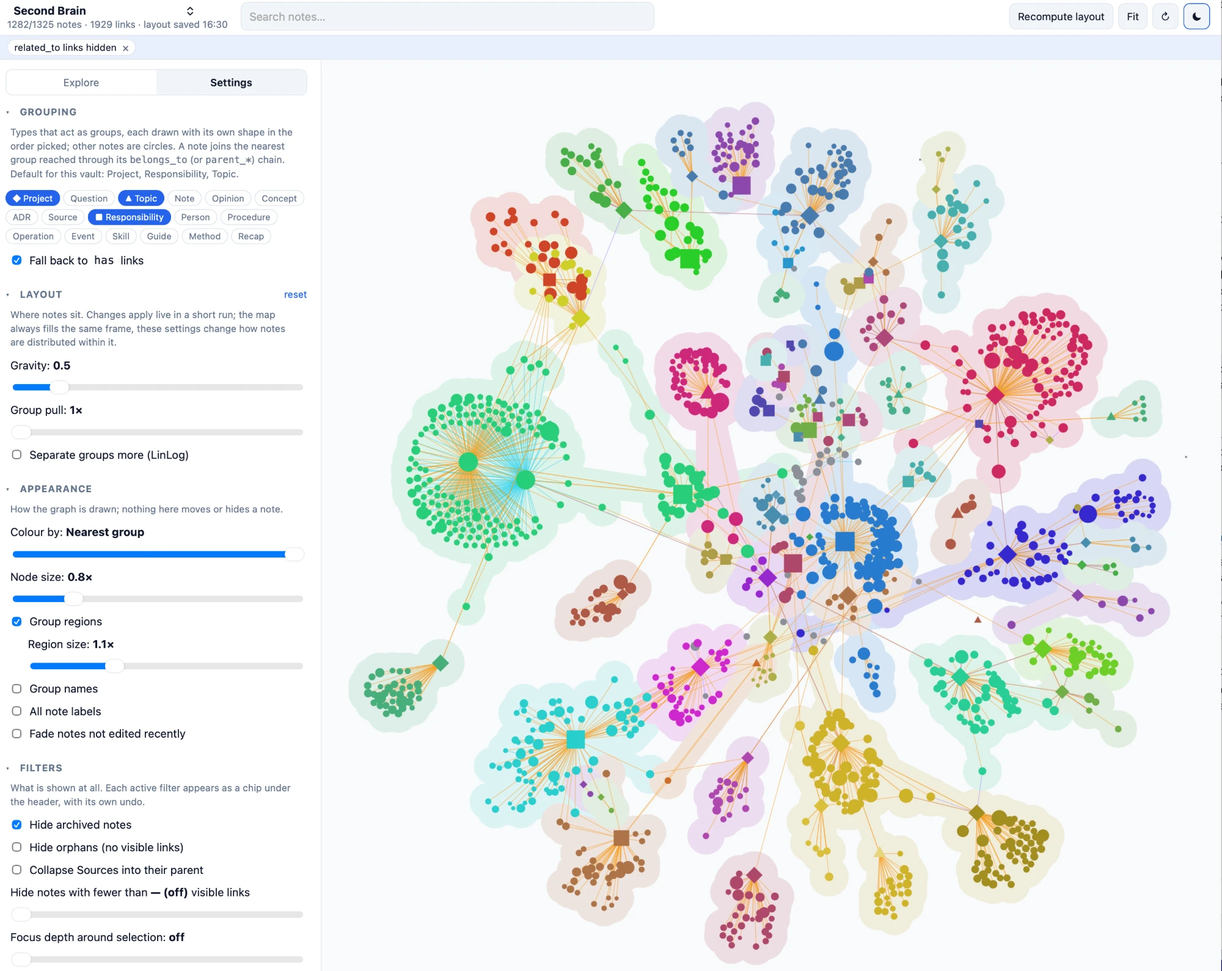
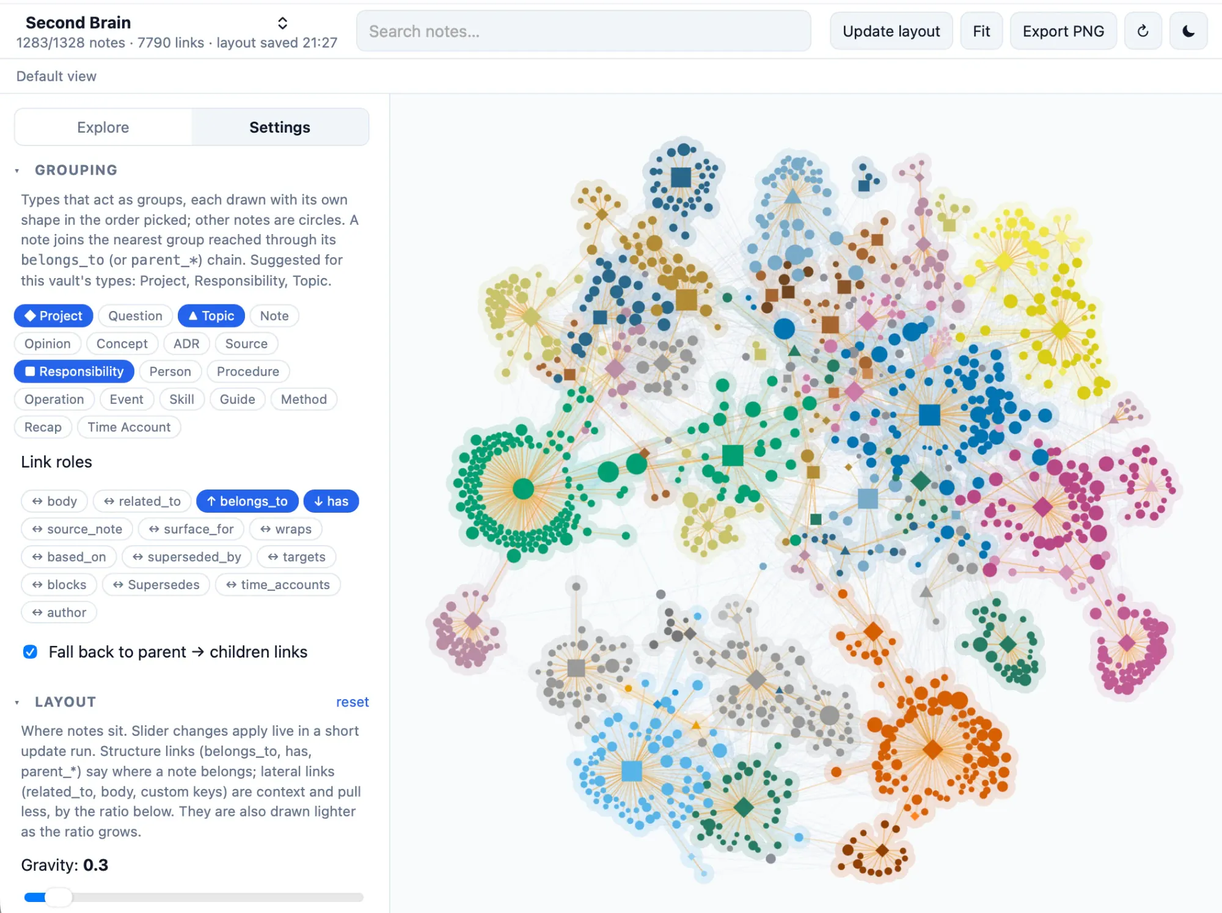
Fix the resize handles sharing one grid cell, rewrite the README, refresh the screenshot
The right gutter kept the .gutter rule's grid-area because its own rule came
first in the stylesheet, so both handles stacked in the left cell: dragging the
left edge resized the note panel and the right edge had no handle at all. The
README now gives the Second Brain context (Tolaria, Portent, the Second Brain
template), everyday use, the configurable conventions and related tools, with
the Tolaria graph-view and plugin claims cited to the right issues.

diff --git a/src/index.css b/src/index.css
@@ -45,7 +45,6 @@ button { font: inherit; color: inherit; }
 }
 .stateline.empty { background: var(--panel); }
 .app.with-panel { grid-template-columns: var(--sidebar-w) 6px minmax(0, 1fr) 6px var(--panel-w); }
-.gutter-right { grid-area: gutter2; border-right: 0; border-left: 1px solid var(--border); }
 .gutter {
   grid-area: gutter;
   cursor: col-resize;
@@ -53,6 +52,8 @@ button { font: inherit; color: inherit; }
   border-right: 1px solid var(--border);
   position: relative;
 }
+/* After .gutter so its grid-area wins (same specificity): both handles once shared the left cell. */
+.gutter.gutter-right { grid-area: gutter2; border-right: 0; border-left: 1px solid var(--border); }
 .gutter::after { content: ""; position: absolute; inset: 0 2px; border-radius: 2px; }
 .gutter:hover::after, .gutter.active::after { background: var(--accent); opacity: .6; }
 .app.resizing { user-select: none; cursor: col-resize; }

diff --git a/README.md b/README.md
@@ -1,44 +1,50 @@
 # Brain Graph
 
-Interactive graph view of a Markdown Second Brain vault (Tolaria-style: frontmatter `type`, wikilink relationships), rendered in WebGL, with notes coloured and grouped by the project or responsibility they belong to.
+An interactive map of a **Second Brain vault**: a folder of Markdown notes with YAML frontmatter and wikilinks, the kind kept with [Tolaria](https://tolaria.md/) and structured with the [Second Brain template](https://github.com/mfoll/second-brain-template). Each note is a node, each relationship a link, and notes are coloured and grouped by the Project, Responsibility or Topic they belong to. The map runs locally from the folder, opens notes back in Tolaria, and never writes to the vault.
 
-![A 1,300-note vault with group regions, coloured by nearest group, related_to links hidden](docs/brain-graph-second-brain.webp)
+![Brain Graph showing a 1,300-note vault: group regions tinted by nearest Project or Responsibility, hierarchy links drawn in orange, and the Settings tab with grouping types and link roles](docs/brain-graph-second-brain.webp)
 
-Tolaria has no graph view and no plugin system (maintainer answer in refactoringhq/tolaria#587), so this is a standalone companion that reads the vault folder directly. It works with any folder of Markdown notes whose frontmatter has a `type` and wikilink relationships; Tolaria itself is optional. A vault with no project-like types shows grey nodes until you pick which types act as groups in Settings → Grouping.
+[Why a map](#why-a-map) · [What it shows](#what-it-shows) · [Install and run](#install-and-run) · [Everyday use](#everyday-use) · [Vault conventions](#vault-conventions) · [Development](#development) · [How it works](#how-it-works) · [Related tools](#related-tools) · [Status](#status) · [Licence](#licence)
+
+## Why a map
+
+A Second Brain of this kind is a graph by construction. [Portent](https://github.com/refactoringhq/portent), the open specification Tolaria follows, gives notes a `type` (Project, Source, Question, Concept, Person…) and typed relationships: `belongs_to` names a parent, `has` selects entry points, `related_to` links laterally. The [Second Brain template](https://github.com/mfoll/second-brain-template) adds the operating rules for agents and a hierarchy contract: every durable note rolls up to a Responsibility, and Topics stay lateral. Tolaria shows this structure one note at a time, as lists of relationships; it has no graph view ([refactoringhq/tolaria#587](https://github.com/refactoringhq/tolaria/issues/587)), and a plugin system is a tracked feature request rather than something to build on ([#1046](https://github.com/refactoringhq/tolaria/issues/1046)).
+
+Brain Graph is the missing picture. Seen whole, the vault answers questions a list cannot: which projects have grown large, which notes sit far from any Responsibility, where two areas of work actually touch, whether a Topic has quietly become a parent. The same view is an audit instrument for the hierarchy contract: the viewer shows which chain of links it followed for every note and lists those that reach no group, and a companion command prints the inferred hierarchy for an agent to review.
+
+It is a standalone companion, not a Tolaria extension: it reads the vault folder directly, Tolaria is optional, and any folder of Markdown notes whose frontmatter carries a `type` and wikilink relationships works. The conventions it assumes are the Tolaria and template defaults, and every one of them can be changed per vault in Settings.
 
 ## What it shows
 
-- One node per Markdown note, sized by number of links, **coloured by its group**: every note rolls up through its `belongs_to` chain to the nearest *group* note. Which types act as groups is configurable (default Project, Responsibility, Topic; when Project is among them the first Project met wins), and so is the role of each relationship kind: child → parent (default `belongs_to`, `parent_*`), parent → children (default `has`, followed only as a fallback because vaults often use it for selective entry points) or lateral. The defaults are Tolaria's conventions; everything is per vault in Settings → Grouping. A slider chooses the roll-up level. Each group type is drawn with its own shape in the order selected (◆ ■ ▲ ▬); every other note is a circle. A vault with no group notes at all falls back to the colours of its `Type` notes.
-- The sidebar has two tabs. **Explore** is for navigation: Groups (the hub hierarchy with note counts), Types and Links, each section collapsible. **Settings** holds everything that changes how the graph is computed or drawn, split by effect: Grouping (how notes are assigned to groups), Layout (where they sit), Appearance (palette, colour level, node size, link opacity, regions, names, labels, recency fade) and Filters (what is shown at all). The sidebar shows the hub hierarchy (Topics and Responsibilities → Projects → subprojects) with note counts. Clicking a row focuses it: every note of the group (or of the type, in the Types section) stays lit and labelled, everything else fades, and for a group its note opens in the panel; clicking again unfocuses, as does clicking the graph. Each Type row expands to its notes and has a hover **hide** toggle for the rare case where a type should leave the graph entirely.
-- Reading: the detail panel renders the note's Markdown (callouts, tables, images from the vault) with wikilinks that navigate the graph, next to a Links tab grouping relationships by kind.
-- Group regions and names: a tinted region behind each home group at the current roll-up level: a disc around each visible member note plus thick rounded strokes along the hierarchy links inside the group, so a cluster reads as one shape; padding is in map units so regions scale with zoom, with a size slider. The group's name sits at its median position. A name appears when at least four of the group's notes are visible; names are placed largest group first and nudged up or down to avoid each other; the focused group is always named. Regions and names fade while something is hovered or focused and follow the grouping types and roll-up level. Regions and names are separate toggles in Settings.
-- The Home tree ends with an **Unassigned** row: notes whose chain reaches no group; focus it to see them. A selected group's panel has a **Members** tab (its notes by type), and every note's breadcrumb has a **why?** link showing the exact chain of relationships the viewer followed.
-- Panel navigation: back and forward arrows replay the notes you opened; Escape unfocuses, then closes the panel. A state line under the header lists what is in effect (focus, hidden types or links, skeleton view…) with one **clear** link.
-- **Export PNG** downloads the current view (background, regions, graph, names) at twice the screen resolution; PNG because the renderer is WebGL and the regions are raster, so there is no vector form to export.
-- The view (hidden types and link kinds, toggles, region size) is remembered per vault in the browser; the focus lives in the URL instead.
-- Shareable URL: `?vault=…&note=…&focus=hub:genesis|type:Question|unassigned&level=0|2` is kept up to date, so a Tolaria note or an agent report can link straight into a view.
-- A **Layout physics** section exposes gravity and the structure-over-lateral ratio (1–10, default 6): a structure link (belongs_to, has, parent_*) pulls that many times harder than a lateral one (related_to, custom keys; body wikilinks at 40 %), and lateral links are drawn thinner and lighter as the ratio grows (full at 1, half at 6, a tenth at 10); Appearance also has a global link opacity, remembered per vault and applied live in a 0.75-second run so the effect is visible at once. Nodes cannot be dragged: hand placement does not survive the next layout run.
-- Type facets: an expanded Type row lists the values of a frontmatter key found on its notes (`status` first; other keys qualify only when shared by at least three types, carried by a tenth of the notes and holding few distinct values), each clickable to focus those notes, e.g. Questions with `status = Open`. Nothing is specific to one vault's vocabulary.
-- Toggles: hide archived, hide orphans, hide notes with fewer than N visible links (skeleton view; group notes always stay), collapse one leaf type (sources, references…) into a `+N` count on its parent, fade notes by time since last edit (7 / 30 / 90 days).
-- One edge per relationship. Every frontmatter key whose value contains wikilinks is a relationship (the Tolaria rule): `belongs_to`, `has`, `related_to`, `surface_for` and custom keys such as `source_note` or `wraps`. Body wikilinks are a separate, thinner `body` kind, hidden by default.
-- Hover: tooltip with type, status, link counts and the note's first paragraph; neighbours stay lit, the rest fades.
-- Click: detail panel with summary, outgoing and incoming relationships grouped by kind, frontmatter, **Open in Tolaria** (`tolaria://<vault-slug>/<path>.md`) and copy-wikilink.
-- Sidebar: toggle types and relationship kinds (Alt-click isolates one), hide archived notes, hide orphans, and a focus-depth slider that keeps only the selected note's neighbourhood.
-- Search box with Enter to jump.
-- Layout: ForceAtlas2 stepped a few iterations per animation frame (about 3 ms each for a thousand notes), damped from the first frame and cooled exponentially so nodes come to rest within the run: 8 s and five steps per frame for a first layout (well over a thousand steps), 0.75 s and two steps per frame for a nudge, a settle of new notes or a physics change. **Update layout** in the header nudges the map from the current positions (0.75 s); **Reset layout** in Settings → Layout redoes it from scratch (8 s); **Stop** keeps the positions of the moment.
-- Live reload: the dev server watches the vault and re-parses on change.
-- During a layout run the physics keeps its natural scale and the frame follows the map smoothly; when the run ends, positions are normalised once to a fixed extent (so saved maps are comparable, node sizes stay constant, and **Fit** is a smooth camera move back to the full view). Normalising on every frame was tried and rejected: it fights ForceAtlas2's natural scale and collapses the map into a ball.
-- Stable map: node positions are saved to `.tmp/layouts/<vault-slug>.json` when a layout run stops (or you pause it). The next start restores them without running the layout; only new notes get a short settling run, placed next to their linked notes while everything else stays pinned. **Reset layout** forgets the saved positions.
+**Nodes.** One node per note, sized by its number of links. Group types (default Project, Responsibility, Topic) are drawn as shapes in the order picked (◆ ■ ▲ ▬); every other note is a circle. Hovering shows type, status, link counts and the first paragraph, and lights the neighbours. Clicking opens the note.
+
+**Colour by group.** Every note rolls up through its `belongs_to` chain (or `parent_*` keys) to the nearest group note and takes its colour. A slider chooses the roll-up level: colour by first-level Responsibility or Topic, or by individual Project. Six palettes. A vault with no group notes at all falls back to the colours declared on its `Type` notes.
+
+**Links.** One edge per relationship: every frontmatter key whose value contains wikilinks counts, which is Tolaria's rule, so `belongs_to`, `has`, `related_to`, `surface_for` and custom keys such as `source_note` all appear, each toggleable. Body wikilinks are a separate, thinner `body` kind, hidden by default. Structure links (child → parent, parent → children) are drawn stronger than lateral ones, and a single ratio decides how much harder they pull in the layout and how much lighter lateral links are drawn.
+
+**Regions and names.** A tinted region behind each group at the current roll-up level, built from discs around member notes and strokes along the hierarchy links inside the group, so a cluster reads as one shape. Regions scale with zoom and have a size slider. Group names sit at the median of their notes, placed largest first and nudged apart. Regions and names are separate toggles and fade while something is hovered or focused.
+
+**Sidebar.** *Explore* lists Groups (the hierarchy with note counts), Types (expandable to their notes, with facets such as `status` for one-click focus on, say, open Questions) and Links. Clicking a row focuses it: its notes stay lit and labelled, everything else fades, and a group's note opens in the panel. *Settings* holds everything that changes how the map is computed or drawn, split by effect: Grouping, Layout, Appearance, Filters. A state line under the header lists what is in effect (focus, hidden types or links, skeleton view…) and clears it in one click.
+
+**Note panel.** The note's Markdown rendered with callouts, tables and vault images; wikilinks navigate the map. A Links tab groups relationships by kind, a Members tab lists a group's notes by type, and a **why?** link on the breadcrumb shows the exact chain the viewer followed to assign the note. Back and forward arrows replay your path. **Open in Tolaria** uses the `tolaria://<vault>/<path>.md` deep link.
+
+**Audit views.** The Groups tree ends with **Unassigned**, the notes whose chain reaches no group. Filters hide archived notes and orphans, keep only notes with at least N visible links (skeleton view; group notes always stay), collapse one leaf type such as Sources into a `+N` count on its parent, and fade notes by time since last edit.
+
+**Layout.** ForceAtlas2, stepped a few iterations per animation frame and cooled so nodes come to rest within the run. Positions are saved per vault when a run stops, so the map is stable between sessions; new notes settle next to their links while the rest stays put. **Update layout** nudges the current map for under a second; **Reset layout** redoes it from scratch in a few seconds and keeps a backup of the previous map. Nodes are not draggable: hand placement would not survive the next run.
+
+**Sharing.** **Export PNG** saves the current view at twice the screen resolution. The URL carries the vault, note, focus and roll-up level (`?vault=…&note=…&focus=hub:genesis&level=0`), so a note in Tolaria or an agent report can link straight into a view. Everything else you toggle is remembered per vault in the browser.
+
+**Live.** The server watches the vault and the map rebuilds when a note changes.
 
 ## Install and run
 
-Brain Graph is a small local web app: a Node process reads your vault and serves the viewer to your browser. It needs Node 20.19 or newer and nothing else.
+Brain Graph is a small local web app: a Node process reads your vault and serves the viewer to your browser. It needs [Node.js](https://nodejs.org/) 20.19 or newer and nothing else.
 
 ```bash
 npx github:mfoll/brain-graph ~/path/to/vault
 ```
 
-The first run builds the app (about a minute), later runs start in a second. The folder is optional: without one, Brain Graph serves the vaults registered in Tolaria plus the folders you add in the app. Options: `--port 5178`, `--no-open`.
+The first run builds the app (about a minute); later runs start in a second. The folder is optional: without one, Brain Graph serves the vaults registered in Tolaria plus the folders you add in the app. Options: `--port 5178`, `--no-open`.
 
 To keep it around, install it once and run it by name:
 
@@ -47,9 +53,31 @@ npm install -g github:mfoll/brain-graph
 brain-graph ~/path/to/vault
 ```
 
-Then open <http://localhost:5178>. The dropdown at the top left lists your vaults; **Manage vaults…** opens a dialog to add a folder by path (any folder of Markdown notes), remove one, and choose whether to include the vaults registered in Tolaria (read from `~/Library/Application Support/com.tolaria.app/vaults.json` when present; Tolaria is optional). The list is stored in `~/.config/brain-graph/vaults.json` and saved layouts in `~/.config/brain-graph/layouts/`. Your last choice is remembered. Each vault has its own graph, saved layout, filters and grouping default: the Second Brain ontology gets Project / Responsibility / Topic, the Scientific Production Archive gets Paper / Grant (the types most often on the receiving end of `parent_*` and `belongs_to` links). Only the selected vault is read; the others are not parsed until you switch to them. The viewer never writes to a vault.
+Then open <http://localhost:5178>. The viewer does not write to the vault. Its own files live in `~/.config/brain-graph/`: `vaults.json` (the vault list) and `layouts/` (one saved map per vault, with a backup).
 
-Edits to notes show up live: the server watches the vault and the page rebuilds the graph when a note changes.
+## Everyday use
+
+- **Switch vaults** with the dropdown at the top left. **Manage vaults…** adds a folder by path, removes one, and chooses whether to include the vaults registered in Tolaria (read from its registry when present). Each vault keeps its own map, filters and grouping; only the selected vault is read.
+- **Find a note** with the search box (Enter jumps to it), or follow a link from Tolaria or a report with the URL form above.
+- **Read a cluster** by clicking its group in Explore, or a Type facet such as Project → Active. Escape unfocuses, then closes the panel.
+- **Review the hierarchy** by focusing Unassigned, opening a suspect note and reading its **why?** chain, then fixing `belongs_to` in Tolaria or with your agent. The map rebuilds on save.
+- **Tune the picture** in Settings: pick which types act as groups, raise the structure-over-lateral ratio to tighten clusters, lower link opacity on dense vaults, or hide a noisy relationship kind in Explore → Links. Slider changes run a short layout update so the effect is visible at once.
+
+## Vault conventions
+
+The defaults follow Tolaria and the Second Brain template; each is a per-vault setting.
+
+| Convention | Default | Where to change it |
+| --- | --- | --- |
+| Group types, in shape order | Project, Responsibility, Topic (Paper, Grant for an archive whose links point to them) | Settings → Grouping |
+| Child → parent links | `belongs_to`, `parent_*` keys | Settings → Grouping → Link roles (↑) |
+| Parent → children links, followed only as a fallback | `has` | Link roles (↓) and the fallback checkbox |
+| Lateral links | `related_to`, `surface_for`, body wikilinks, every other key | Link roles (↔) |
+| Type colours when no groups exist | `_color` on `type: Type` notes | the vault's Type notes |
+| Archived notes | `_archived: true` or `archived: true` | Settings → Filters |
+| Deep links | `tolaria://<slug>/<path>.md`, slug from the vault label | `VAULT_SLUG` |
+
+The `has` fallback exists because vaults use `has` for selective entry points rather than ownership: in the vault pictured above, 299 notes would have been homed through `has` alone before `belongs_to` was given priority. The grouping rules are those of the template's [hierarchy audit](https://github.com/mfoll/second-brain-template); the `graph:homes` command below prints what the viewer infers so the two can be compared.
 
 ## Development
 
@@ -59,9 +87,7 @@ pnpm install
 VAULT=~/path/to/vault VAULT_LABEL="Name" pnpm dev   # Vite dev server with hot reload on :5178
 ```
 
-Set `VAULT_SLUG` if the Tolaria deep-link slug differs from the slugified label. `pnpm build` produces `dist/` (the app plus the compiled server), which `bin/brain-graph.mjs` serves; `pnpm start -- ~/path/to/vault` runs that CLI from the checkout.
-
-Other commands:
+`pnpm build` produces `dist/` (the app plus the compiled server), which `bin/brain-graph.mjs` serves; `pnpm start -- ~/path/to/vault` runs that CLI from the checkout. Set `VAULT_SLUG` if the Tolaria deep-link slug differs from the slugified label.
 
 ```bash
 pnpm typecheck
@@ -70,20 +96,32 @@ pnpm graph:homes ~/my-vault               # the inferred group hierarchy plus au
                                           # (--no-has, --hubs=Project,Topic, --json)
 ```
 
-`graph:homes` prints the hierarchy the viewer infers and four audit lists: Projects whose parent is a Topic (a convention check for Tolaria's template, where Topics are lateral), notes with several parents at the same distance, notes homed only through a `has` link, and notes with no group at all. It is meant as input for reorganising `belongs_to` in a vault.
+`graph:homes` prints the hierarchy the viewer infers and four audit lists: Projects whose parent is a Topic, notes with several parents at the same distance, notes homed only through a `has` link, and notes with no group at all. It is meant as input for reorganising `belongs_to`; the viewer itself never writes.
 
-Contributions are welcome as issues or pull requests. Keep the vault format assumptions (frontmatter relationships, Tolaria conventions) configurable rather than hard-coded, and run `pnpm typecheck` before opening a pull request.
+Issues and pull requests are welcome. Keep vault assumptions configurable rather than hard-coded, and run `pnpm typecheck` before opening a pull request.
 
 ## How it works
 
 - `server/vault.ts` walks the vault (skipping dot-folders), parses frontmatter with `yaml`, extracts the H1, first paragraph, Type metadata and all wikilinks, and resolves link targets (root stems, folder-path stems, `|alias` and `#anchor` forms).
-- `server/api.ts` is a framework-free HTTP API (vault registry, `/api/graph`, note text, saved layouts, change events over Server-Sent Events via `chokidar`). The Vite plugin mounts it in development; `bin/brain-graph.mjs` serves it with the built app.
-- `src/` is React 19 + TypeScript on Vite 8. Rendering uses Sigma.js 4 with Graphology: the declarative styles API maps attributes to colour/size, and node/edge *state* (`isHidden`, `isHighlighted`, custom `isSelected`) drives filtering and hover emphasis without mutating the graph.
+- `server/api.ts` is a framework-free HTTP API: vault registry, parsed graph, note text and assets, saved layouts, and change events over Server-Sent Events (`chokidar` watches the folder). The Vite plugin mounts it in development; `bin/brain-graph.mjs` serves it next to the built app.
+- `src/` is React 19 + TypeScript on Vite 8. Rendering uses [Sigma.js](https://www.sigmajs.org/) 4 with [Graphology](https://graphology.github.io/): the declarative styles API maps attributes to colour and size, and node and edge *state* (`isHidden`, `isHighlighted`, `isSelected`) drives filtering and hover emphasis without mutating the graph. Regions are a 2D canvas layer behind the WebGL stage; names are drawn on a layer in front.
+- `src/graph/home.ts` assigns each note to its group: strongest child → parent links first, parent → children links as a fallback, with the path recorded so the panel can explain it.
+- Layout is graphology's ForceAtlas2 run synchronously a few iterations per frame with a cooling schedule, then normalised once to a fixed extent so saved maps are comparable and **Fit** is a smooth camera move. A worker-based layout was tried and dropped: its adaptive speed cancelled the damping.
+
+## Related tools
+
+| Tool | What it is | Relation |
+| --- | --- | --- |
+| [Tolaria](https://tolaria.md/) ([source](https://github.com/refactoringhq/tolaria)) | Local-first desktop app for Markdown vaults with typed notes and relationships, Git sync and an MCP server for agents. | The viewer Brain Graph is built for: same files, same conventions, deep links back into it. Tolaria has no graph view and no plugin system yet. |
+| [Portent](https://github.com/refactoringhq/portent) | Refactoring's open specification for portable knowledge bases: core types, relationships and lifecycle. | Supplies the vocabulary Brain Graph reads: `type`, `belongs_to`, `has`, `related_to`. |
+| [Second Brain template](https://github.com/mfoll/second-brain-template) | A Portent vault template with agent operating rules, Procedures, ADRs and lint audits, including a `belongs_to` hierarchy contract. | Brain Graph is its visual companion: the grouping rules match the template's hierarchy contract, and the audit views and `graph:homes` feed its lint and health review. |
+| [Obsidian graph view](https://help.obsidian.md/plugins/graph) | The built-in graph of an Obsidian vault, based on body links. | Zero-setup fallback for any Markdown folder, without frontmatter relationships, types or hierarchy. |
+| [Quartz](https://quartz.jzhao.xyz/), [Foam](https://foambubble.github.io/) | A static-site generator and a VS Code extension, each with a link graph. | Need their own build or editor and read body links only. |
 
 ## Status
 
-Prototype (October 2026). Vaults are shown one at a time; cross-vault links are not drawn. Hulls are a 2D canvas layer behind the WebGL stage (the stage background is transparent and the container paints it). Known gaps: the Tolaria deep-link slug is inferred from the vault label, not read from Tolaria's registry.
+Working and in daily use since October 2026 on a 1,300-note vault. Vaults are shown one at a time; a bridge view of cross-vault pointers is on the backlog. The Tolaria deep-link slug is inferred from the vault label rather than read from Tolaria's registry.
 
 ## Licence
 
-MIT, see [LICENSE](LICENSE).
+MIT, see [LICENSE](LICENSE). Brain Graph is an independent project and is not affiliated with Tolaria or Refactoring.
